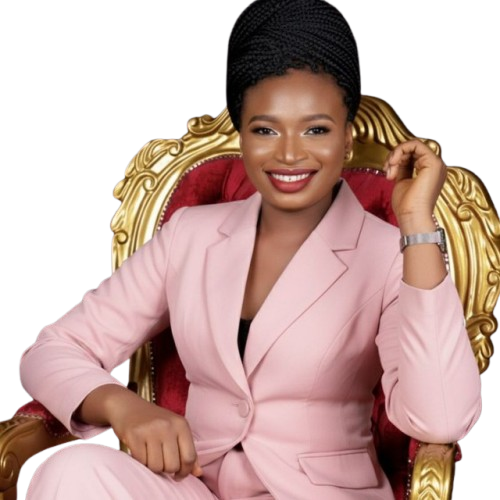
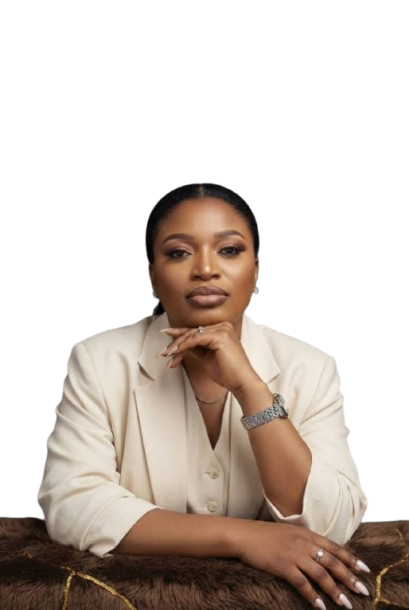
Resumed work on project

diff --git a/static/css/styles.css b/static/css/styles.css
@@ -508,11 +508,26 @@ section {
   margin-bottom: 40px;
 }
 
+.post-body {
+  max-width: 700px;
+  margin: auto;
+  font-size: 17px;
+  line-height: 1.8em;
+}
+
+.post-body h2 {
+  margin-top: 32px;
+}
+
 .post-body p {
   font-size: 18px;
   color: #444;
   line-height: 1.9;
-  margin-bottom: 24px;
+  margin-bottom: 20px;
+}
+
+.post-body img {
+  margin: 30px 0;
 }
 
 .post-footer {
@@ -1016,18 +1031,31 @@ section {
   position: relative;
   display: flex;
   justify-content: center;
+  align-items: center;
+  padding: 20px;
 }
 
 .podcast-image-bg {
-  position: absolute;
+  position: relative;
   width: 320px;
   height: 400px;
   background: linear-gradient(135deg, #D4A843, #6B2D8B);
   border-radius: 16px;
-  top: 20px;
-  left: 20px;
   z-index: 0;
   opacity: 0.2;
+}
+
+.podcast-image-bg::before {
+  content: "";
+  position: absolute;
+  width: 100%;
+  height: 100%;
+  background: inherit;
+  border-radius: inherit;
+  top: 0;
+  left: 0;
+  z-index: -1;
+  opacity: 0.3;
 }
 
 .podcast-intro-image img {
@@ -1036,7 +1064,7 @@ section {
   object-fit: cover;
   object-position: top;
   border-radius: 16px;
-  position: relative;
+  position: absolute;
   z-index: 1;
   filter: drop-shadow(0 20px 40px rgba(107, 45, 139, 0.25));
 }
@@ -1459,6 +1487,17 @@ section {
 }
 
 /* Admin Dashboard */
+.admin-dashboard .container,
+.admin-create .container {
+  max-width: 1000px;
+}
+
+.admin-dashboard table {
+  width: 100%;
+  overflow-x: auto;
+  display: block;
+}
+
 .admin-dashboard {
   padding: 40px 0;
   background: #FFF9F5;
@@ -1936,6 +1975,8 @@ section {
   line-height: 1.9;
   font-size: 1.1rem;
   color: #444;
+  max-width: 750px;
+  margin: auto;
 }
 
 .post-content h2,
@@ -1980,6 +2021,18 @@ section {
   color: #fff;
 }
 
+/* Improve layout consistency */
+img {
+  max-width: 100%;
+  height: auto;
+}
+
+.container {
+  width: 100%;
+  max-width: 1200px;
+  margin: 0 auto;
+  padding: 0 20px;
+}
 /* ===== MEDIA QUERIES ===== */
 
 /* Large screens */
@@ -2007,6 +2060,13 @@ section {
 
   .hero-content {
     gap: 30px;
+  }
+  
+  .hero-content,
+  .about-content,
+  .podcast-intro-content {
+    flex-direction: column;
+    text-align: center;
   }
   
   .blog-grid {
@@ -2040,6 +2100,43 @@ section {
 
   .about-stats {
     justify-content: center;
+  }
+}
+@media (max-width: 992px) {
+  /* Grids */
+  .blog-grid {
+    grid-template-columns: repeat(2, 1fr);
+  }
+
+  .mission-grid {
+    grid-template-columns: repeat(2, 1fr);
+  }
+
+  .pub-grid {
+    grid-template-columns: 1fr;
+  }
+
+  /* Flex sections stack */
+  .hero-content,
+  .about-content,
+  .podcast-intro-content,
+  .contact-wrapper {
+    flex-direction: column;
+    gap: 40px;
+    text-align: center;
+  }
+
+  /* Images scale down */
+  .hero-image img,
+  .about-image-wrapper img,
+  .podcast-intro-image img {
+    width: 100%;
+    height: auto;
+  }
+
+  /* Header text */
+  .hero-text h1 {
+    font-size: 40px;
   }
 }
 
@@ -2279,6 +2376,65 @@ section {
 
   .create-form {
     padding: 24px;
+  }
+}
+@media (max-width: 600px) {
+  .blog-grid {
+    grid-template-columns: 1fr;
+  }
+
+  .container {
+    padding: 0 16px;
+  }
+
+  .hero-text h1 {
+    font-size: 32px;
+  }
+}
+@media (max-width: 600px) {
+  /* Single column everywhere */
+  .blog-grid,
+  .mission-grid,
+  .pub-grid {
+    grid-template-columns: 1fr;
+  }
+
+  /* Typography */
+  h1 { font-size: 28px; }
+  h2 { font-size: 24px; }
+
+  .hero-text h1 {
+    font-size: 30px;
+  }
+
+  /* Spacing */
+  section {
+    padding: 40px 0;
+  }
+
+  .container {
+    padding: 0 16px;
+  }
+
+  /* Navbar */
+  .nav-links {
+    position: absolute;
+    top: 90px;
+    right: 0;
+    background: #FFF9F5;
+    width: 100%;
+    flex-direction: column;
+    align-items: center;
+    display: none;
+    padding: 20px 0;
+  }
+
+  .nav-links.active {
+    display: flex;
+  }
+
+  .hamburger {
+    display: flex;
   }
 }
 

diff --git a/templates/base.html b/templates/base.html
@@ -7,8 +7,8 @@
   
   <!-- Favicon -->
   <link rel="icon" sizes="32x32" href="{{ url_for('static', filename='images/favicon.png') }}">
-<link rel="apple-touch-icon" href="{{ url_for('static', filename='images/favicon.png') }}">
-  
+  <link rel="apple-touch-icon" href="{{ url_for('static', filename='images/favicon.png') }}">
+    
   <!-- Font Awesome -->
   <link rel="stylesheet" href="https://cdnjs.cloudflare.com/ajax/libs/font-awesome/6.5.0/css/all.min.css">
   
@@ -29,7 +29,7 @@
     <div class="container">
       <div class="logo">
         <a href="{{ url_for('index') }}">
-          <img src="{{ url_for('static', filename='images/logo.png') }}" alt="InnerPeace Hub Logo">
+          <img src="{{ url_for('static', filename='images/innerpeacelogo.png') }}" alt="InnerPeace Hub Logo">
         </a>
       </div>
       <nav>

diff --git a/templates/post.html b/templates/post.html
@@ -54,6 +54,21 @@
             </a>
           </div>
         </div>
+        <div id="disqus_thread"></div>
+
+        <script>
+        var disqus_config = function () {
+        this.page.url = window.location.href;
+        this.page.identifier = "{{ post.id }}";
+        };
+        
+        (function() {
+        var d = document, s = d.createElement('script');
+        s.src = 'https://innerpeacehub.disqus.com/embed.js';
+        s.setAttribute('data-timestamp', +new Date());
+        (d.head || d.body).appendChild(s);
+        })();
+        </script>
       {% endfor %}
     </div>
   </div>

diff --git a/static/js/script.js b/static/js/script.js
@@ -235,3 +235,13 @@ if (revealElements.length > 0) {
 
   revealElements.forEach(el => revealObserver.observe(el));
 }
+
+// Auto-dismiss flash messages
+const flashMessages = document.querySelectorAll('.flash-message');
+flashMessages.forEach(msg => {
+  setTimeout(() => {
+    msg.style.opacity = '0';
+    msg.style.transition = 'opacity 0.5s';
+    setTimeout(() => msg.remove(), 500);
+  }, 4000);
+});

diff --git a/templates/about.html b/templates/about.html
@@ -11,7 +11,7 @@
 
         <div class="about-image-wrapper reveal-left">
           <div class="about-image-bg"></div>
-          <img src="{{ url_for('static', filename='images/ezinne1.png') }}" alt="Ezinne Uduma" />
+          <img src="{{ url_for('static', filename='images/ezinne.png') }}" alt="Ezinne Uduma" />
         </div>
 
         <div class="about-text reveal-right">

diff --git a/templates/podcast.html b/templates/podcast.html
@@ -34,7 +34,7 @@
         </div>
         <div class="podcast-intro-image reveal-right">
           <div class="podcast-image-bg"></div>
-          <img src="{{ url_for('static', filename='images/zinny1.png') }}" alt="Ezinne Obinwa" />
+          <img src="{{ url_for('static', filename='images/zinny.png') }}" alt="Ezinne Obinwa" />
         </div>
       </div>
     </div>

diff --git a/templates/index.html b/templates/index.html
@@ -18,7 +18,7 @@
         </a>
       </div>
       <div class="hero-image reveal-right">
-        <img src="{{ url_for('static', filename='images/zinny1.png') }}" alt="Ezinne Uduma" />
+        <img src="{{ url_for('static', filename='images/zinny.png') }}" alt="Ezinne Uduma" />
       </div>
     </div>
   </section>
